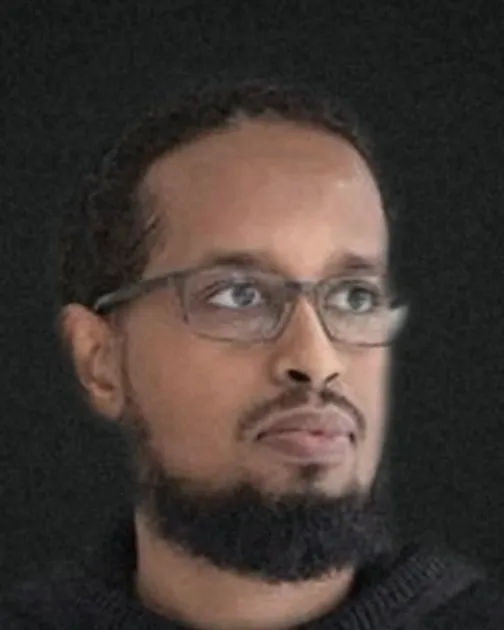
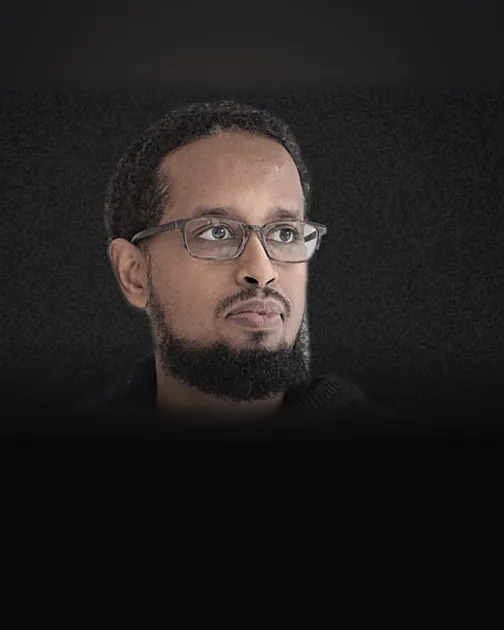
asmbly: pink bio overlay, consistent portraits, new links (#18)
Replaces the decrypt effect with a signal-pink duotone and a short bio that
rises over the portrait on hover (and for cards in the middle of the viewport on
touch screens). Portraits are reframed with face detection so faces sit at the
same size and height; cover text is cropped out and backgrounds extended where
needed, with a shared fade into the card body. Robleh Jama uses his updated
cover photo. Adds @robjama and @amirmxt on X and @pursuitgrooves on Instagram.

Claude-Session: https://claude.ai/code/session_015vvedEEUJEY2Xconp5SVWz

diff --git a/public/asmbly/index.html b/public/asmbly/index.html
@@ -360,16 +360,20 @@
   .card__img::after { content: ""; position: absolute; inset: 0; background: repeating-linear-gradient(0deg, rgba(0,0,0,.4) 0 2px, transparent 2px 4px); mix-blend-mode: multiply; }
   .card__q { position: absolute; inset: 0; display: grid; place-items: center; font-family: var(--mono); font-weight: 600; font-size: clamp(80px, 10vw, 150px); color: rgba(242,242,242,.9); z-index: 2; transition: opacity .5s; }
   .card:hover .card__q { opacity: 0; }
-  .card--revealed .card__img img, .card--revealed:hover .card__img img { filter: none; transform: scale(1.02); }
+  .card--revealed .card__img img, .card--revealed:hover .card__img img { filter: none; transform: scale(1.02); transition: filter .45s ease, transform 1.2s ease; }
   .card--revealed:hover .card__img img { transform: scale(1.06); }
   .card--revealed .card__img::after { opacity: .35; }
   /* Revealed artists: the whole card opens their Instagram (the link stretches over the card) */
   .card--revealed { position: relative; cursor: pointer; }
   /* Decrypt on hover: a canvas over the portrait flicks through the artist's work as pixel tiles, then resolves back */
-  .card__decrypt { position: absolute; inset: 0; width: 100%; height: 100%; z-index: 1; image-rendering: pixelated; opacity: 0; pointer-events: none; }
-  .card__decrypt.on { opacity: 1; }
-  .card__tag { position: absolute; top: 12px; left: 12px; z-index: 2; font-family: var(--mono); font-weight: 600; font-size: 11px; letter-spacing: .14em; text-transform: uppercase; background: var(--signal); color: var(--ink); padding: 4px 7px; opacity: 0; pointer-events: none; }
-  .card__tag.on { opacity: 1; }
+  /* Bio overlay: on hover (or when centred on touch screens) the portrait drops to a signal-pink duotone and a short bio rises in */
+  .card--revealed .card__img::before { content: ""; position: absolute; inset: 0; z-index: 1; background: var(--signal); mix-blend-mode: multiply; opacity: 0; transition: opacity .45s ease; pointer-events: none; }
+  .card__bio { position: absolute; inset: 0; z-index: 2; display: flex; flex-direction: column; justify-content: flex-end; gap: 10px; padding: 22px 20px; color: var(--white); background: linear-gradient(to top, rgba(5,5,5,.88) 0%, rgba(5,5,5,.55) 45%, rgba(5,5,5,0) 75%); opacity: 0; transform: translateY(14px); transition: opacity .4s ease, transform .5s cubic-bezier(.2,.7,.2,1); pointer-events: none; }
+  .card__bio span { font-size: 11px; letter-spacing: .18em; color: var(--signal); }
+  .card__bio p { font-family: var(--body); font-weight: 500; font-size: 15px; line-height: 1.4; }
+  .card--revealed:is(:hover, :focus-within, .is-active) .card__img::before { opacity: .78; }
+  .card--revealed:is(:hover, :focus-within, .is-active) .card__img img { filter: grayscale(1) contrast(1.25) brightness(1.4); }
+  .card--revealed:is(:hover, :focus-within, .is-active) .card__bio { opacity: 1; transform: none; }
   .card__ig { display: inline-block; max-width: 100%; overflow-wrap: anywhere; margin-top: 8px; color: var(--white); text-transform: none; transition: color .25s; }
   .card__ig::after { content: ""; position: absolute; inset: 0; z-index: 3; }
   .card--revealed:hover .card__ig, .card__ig:focus-visible { color: var(--signal); }
@@ -378,7 +382,7 @@
   .card__role { margin-top: 10px; color: var(--grey); }
   .lineup-note { display: flex; justify-content: space-between; align-items: center; gap: 20px; flex-wrap: wrap; margin-top: 28px; }
   @media (max-width: 1000px) { .lineup { grid-template-columns: repeat(2, 1fr); } }
-  @media (max-width: 480px) { .card__name { font-size: 18px; } .card__body { padding: 14px; } .card__ig { font-size: 11px; letter-spacing: .04em; } }
+  @media (max-width: 480px) { .card__name { font-size: 18px; } .card__body { padding: 14px; } .card__ig { font-size: 11px; letter-spacing: .04em; } .card__bio { padding: 14px 12px; gap: 6px; } .card__bio p { font-size: 12px; line-height: 1.35; } .card__bio span { font-size: 9px; } }
 
   /* Venue horizontal scroll */
   .venue { overflow: hidden; }
@@ -851,19 +855,19 @@ document.addEventListener('click', (e) => {
       <span class="eyebrow">Decrypting soon</span>
     </div>
     <div class="lineup">
-      <article class="card card--revealed" data-decrypt="/asmbly/img/decrypt-sophie-hospes.webp"><div class="card__img"><img decoding="async" src="/asmbly/img/sophie-hospes-s.webp" alt="Sophie Hospes" loading="lazy" /></div><div class="card__body"><div class="card__name">Sophie Hospes</div><div class="card__role mono">Speaker · The future of creative work</div><a class="card__ig mono" href="https://www.instagram.com/studiosophiehospes/" target="_blank" rel="noopener" aria-label="Sophie Hospes on Instagram">@studiosophiehospes ↗</a></div></article>
-      <article class="card card--revealed" data-decrypt="/asmbly/img/decrypt-sehun-choi.webp"><div class="card__img"><img decoding="async" src="/asmbly/img/sehun-choi-s.webp" alt="Sehun Choi" loading="lazy" /></div><div class="card__body"><div class="card__name">Sehun Choi</div><div class="card__role mono">Speaker · Artist talk</div><a class="card__ig mono" href="https://www.instagram.com/se.hunchoi/" target="_blank" rel="noopener" aria-label="Sehun Choi: @se.hunchoi">@se.hunchoi ↗</a></div></article>
-      <article class="card card--revealed" data-decrypt="/asmbly/img/decrypt-wilfred-lee.webp"><div class="card__img"><img decoding="async" src="/asmbly/img/wilfred-lee-s.webp" alt="Wilfred Lee" loading="lazy" /></div><div class="card__body"><div class="card__name">Wilfred Lee</div><div class="card__role mono">Panelist · The future of entertainment</div><a class="card__ig mono" href="https://www.instagram.com/theartistsjourney/" target="_blank" rel="noopener" aria-label="Wilfred Lee on Instagram">@theartistsjourney ↗</a></div></article>
-      <article class="card card--revealed" data-decrypt="/asmbly/img/decrypt-andrew-macdonald.webp"><div class="card__img"><img decoding="async" src="/asmbly/img/andrew-macdonald-s.webp" alt="Andrew MacDonald" loading="lazy" /></div><div class="card__body"><div class="card__name">Andrew MacDonald</div><div class="card__role mono">Panelist · Dark Half</div><a class="card__ig mono" href="https://darkhalf.ai/" target="_blank" rel="noopener" aria-label="Andrew MacDonald: darkhalf.ai">darkhalf.ai ↗</a></div></article>
-      <article class="card card--revealed"><div class="card__img"><img decoding="async" src="/asmbly/img/robleh-jama-s.webp" alt="Robleh Jama" loading="lazy" /></div><div class="card__body"><div class="card__name">Robleh Jama</div><div class="card__role mono">Panelist · The Builder's Playbook</div></div></article>
-      <article class="card card--revealed"><div class="card__img"><img decoding="async" src="/asmbly/img/amir-mxt-s.webp" alt="Amir MXT" loading="lazy" /></div><div class="card__body"><div class="card__name">Amir MXT</div><div class="card__role mono">Panelist · The Builder's Playbook</div></div></article>
-      <article class="card card--revealed" data-decrypt="/asmbly/img/decrypt-ali-phi.webp"><div class="card__img"><img decoding="async" src="/asmbly/img/ali-phi-s.webp" alt="Ali Phi" loading="lazy" /></div><div class="card__body"><div class="card__name">Ali Phi</div><div class="card__role mono">Closing AV performance</div><a class="card__ig mono" href="https://www.instagram.com/ali_phi/" target="_blank" rel="noopener" aria-label="Ali Phi on Instagram">@ali_phi ↗</a></div></article>
-      <article class="card card--revealed" data-decrypt="/asmbly/img/decrypt-enna-kim.webp"><div class="card__img"><img decoding="async" src="/asmbly/img/enna-kim-s.webp" alt="Enna Kim" loading="lazy" /></div><div class="card__body"><div class="card__name">Enna Kim</div><div class="card__role mono">Exhibiting artist</div><a class="card__ig mono" href="https://www.instagram.com/fongkikid/" target="_blank" rel="noopener" aria-label="Enna Kim on Instagram">@fongkikid ↗</a></div></article>
-      <article class="card card--revealed" data-decrypt="/asmbly/img/decrypt-pursuit-grooves.webp"><div class="card__img"><img decoding="async" src="/asmbly/img/pursuit-grooves-s.webp" alt="Pursuit Grooves" loading="lazy" /></div><div class="card__body"><div class="card__name">Pursuit Grooves</div><div class="card__role mono">Opening performance</div></div></article>
-      <article class="card card--revealed" data-decrypt="/asmbly/img/decrypt-pfd.webp"><div class="card__img"><img decoding="async" src="/asmbly/img/pfd-s.webp" alt="Pray First Diva" loading="lazy" /></div><div class="card__body"><div class="card__name">Pray First Diva</div><div class="card__role mono">Exhibiting artist</div><a class="card__ig mono" href="https://www.instagram.com/prayfirstdiva/" target="_blank" rel="noopener" aria-label="Pray First Diva on Instagram">@prayfirstdiva ↗</a></div></article>
-      <article class="card card--revealed" data-decrypt="/asmbly/img/decrypt-alex-mcleod.webp"><div class="card__img"><img decoding="async" src="/asmbly/img/alex-mcleod-s.webp?v=2" alt="Alex McLeod" loading="lazy" /></div><div class="card__body"><div class="card__name">Alex McLeod</div><div class="card__role mono">Exhibiting artist</div><a class="card__ig mono" href="https://www.instagram.com/alex_mcleod_/" target="_blank" rel="noopener" aria-label="Alex McLeod on Instagram">@alex_mcleod_ ↗</a></div></article>
-      <article class="card card--revealed" data-decrypt="/asmbly/img/decrypt-geoffrey-pugen.webp"><div class="card__img"><img decoding="async" src="/asmbly/img/geoffrey-pugen-s.webp" alt="Geoffrey Pugen" loading="lazy" /></div><div class="card__body"><div class="card__name">Geoffrey Pugen</div><div class="card__role mono">Exhibiting artist</div><a class="card__ig mono" href="https://www.instagram.com/geoffreypugen/" target="_blank" rel="noopener" aria-label="Geoffrey Pugen on Instagram">@geoffreypugen ↗</a></div></article>
-      <article class="card card--revealed" data-decrypt="/asmbly/img/decrypt-robbot.webp"><div class="card__img"><img decoding="async" src="/asmbly/img/robbot-s.webp" alt="ROBBOT" loading="lazy" /></div><div class="card__body"><div class="card__name">ROBBOT</div><div class="card__role mono">Interactive installation</div><a class="card__ig mono" href="https://www.instagram.com/robbot.5000/" target="_blank" rel="noopener" aria-label="ROBBOT: @robbot.5000">@robbot.5000 ↗</a></div></article>
+      <article class="card card--revealed"><div class="card__img"><img decoding="async" src="/asmbly/img/sophie-hospes-s.webp" alt="Sophie Hospes" loading="lazy" /><div class="card__bio" aria-hidden="true"><span class="mono">About</span><p>Creative director based in Malmö. Through Studio Sophie Hospes and as Creative Director at New Limit Labs, she builds brand worlds across campaigns, product design and AI-powered creative systems.</p></div></div><div class="card__body"><div class="card__name">Sophie Hospes</div><div class="card__role mono">Speaker · The future of creative work</div><a class="card__ig mono" href="https://www.instagram.com/studiosophiehospes/" target="_blank" rel="noopener" aria-label="Sophie Hospes on Instagram">@studiosophiehospes ↗</a></div></article>
+      <article class="card card--revealed"><div class="card__img"><img decoding="async" src="/asmbly/img/sehun-choi-s.webp" alt="Sehun Choi" loading="lazy" /><div class="card__bio" aria-hidden="true"><span class="mono">About</span><p>Seoul-based artist working with generative AI across image, film and large-scale installation, with work for brands including OpenAI, Samsung and LG Electronics.</p></div></div><div class="card__body"><div class="card__name">Sehun Choi</div><div class="card__role mono">Speaker · Artist talk</div><a class="card__ig mono" href="https://www.instagram.com/se.hunchoi/" target="_blank" rel="noopener" aria-label="Sehun Choi: @se.hunchoi">@se.hunchoi ↗</a></div></article>
+      <article class="card card--revealed"><div class="card__img"><img decoding="async" src="/asmbly/img/wilfred-lee-s.webp" alt="Wilfred Lee" loading="lazy" /><div class="card__bio" aria-hidden="true"><span class="mono">About</span><p>Toronto AI filmmaker, worldbuilder and educator. Founder of Artist's Journey and GenTO, he brings storytelling, generative tools and community together into finished work.</p></div></div><div class="card__body"><div class="card__name">Wilfred Lee</div><div class="card__role mono">Panelist · The future of entertainment</div><a class="card__ig mono" href="https://www.instagram.com/theartistsjourney/" target="_blank" rel="noopener" aria-label="Wilfred Lee on Instagram">@theartistsjourney ↗</a></div></article>
+      <article class="card card--revealed"><div class="card__img"><img decoding="async" src="/asmbly/img/andrew-macdonald-s.webp" alt="Andrew MacDonald" loading="lazy" /><div class="card__bio" aria-hidden="true"><span class="mono">About</span><p>Filmmaker and creative-innovation leader at Cream Productions. As executive creative producer at Dark Half, he leads AI-enabled production and VFX workflows for film and television.</p></div></div><div class="card__body"><div class="card__name">Andrew MacDonald</div><div class="card__role mono">Panelist · Dark Half</div><a class="card__ig mono" href="https://darkhalf.ai/" target="_blank" rel="noopener" aria-label="Andrew MacDonald: darkhalf.ai">darkhalf.ai ↗</a></div></article>
+      <article class="card card--revealed"><div class="card__img"><img decoding="async" src="/asmbly/img/robleh-jama-s.webp" alt="Robleh Jama" loading="lazy" /><div class="card__bio" aria-hidden="true"><span class="mono">About</span><p>Toronto product builder and founder of Tomorrow. A Shopify alum, he co-founded Boom, the camera app for video calls, and founded the app studio Tiny Hearts.</p></div></div><div class="card__body"><div class="card__name">Robleh Jama</div><div class="card__role mono">Panelist · The Builder's Playbook</div><a class="card__ig mono" href="https://x.com/robjama" target="_blank" rel="noopener" aria-label="Robleh Jama: @robjama">@robjama ↗</a></div></article>
+      <article class="card card--revealed"><div class="card__img"><img decoding="async" src="/asmbly/img/amir-mxt-s.webp" alt="Amir MXT" loading="lazy" /><div class="card__bio" aria-hidden="true"><span class="mono">About</span><p>Founder of Humblytics, the simple analytics and A/B testing platform for websites. A product builder focused on shipping fast with small teams and new tools.</p></div></div><div class="card__body"><div class="card__name">Amir MXT</div><div class="card__role mono">Panelist · The Builder's Playbook</div><a class="card__ig mono" href="https://x.com/amirmxt" target="_blank" rel="noopener" aria-label="Amir MXT: @amirmxt">@amirmxt ↗</a></div></article>
+      <article class="card card--revealed"><div class="card__img"><img decoding="async" src="/asmbly/img/ali-phi-s.webp" alt="Ali Phi" loading="lazy" /><div class="card__bio" aria-hidden="true"><span class="mono">About</span><p>Tehran-born, Toronto-based computer artist and creative technologist. His live audiovisual sets fuse generative visuals, sound and data, with performances at MUTEK Montréal.</p></div></div><div class="card__body"><div class="card__name">Ali Phi</div><div class="card__role mono">Closing AV performance</div><a class="card__ig mono" href="https://www.instagram.com/ali_phi/" target="_blank" rel="noopener" aria-label="Ali Phi on Instagram">@ali_phi ↗</a></div></article>
+      <article class="card card--revealed"><div class="card__img"><img decoding="async" src="/asmbly/img/enna-kim-s.webp" alt="Enna Kim" loading="lazy" /><div class="card__bio" aria-hidden="true"><span class="mono">About</span><p>Korean-Canadian new media artist and VJ working with projection mapping, murals, interactive installation and live performance, from the AGO to MUTEK and Venus Fest.</p></div></div><div class="card__body"><div class="card__name">Enna Kim</div><div class="card__role mono">Exhibiting artist</div><a class="card__ig mono" href="https://www.instagram.com/fongkikid/" target="_blank" rel="noopener" aria-label="Enna Kim on Instagram">@fongkikid ↗</a></div></article>
+      <article class="card card--revealed"><div class="card__img"><img decoding="async" src="/asmbly/img/pursuit-grooves-s.webp" alt="Pursuit Grooves" loading="lazy" /><div class="card__bio" aria-hidden="true"><span class="mono">About</span><p>Toronto producer, vocalist and visual artist Vanese Smith. 16+ albums and EPs on labels like Tectonic and Deepblak, MUTEK stages, and a 2025 Johanna Metcalf Prize finalist.</p></div></div><div class="card__body"><div class="card__name">Pursuit Grooves</div><div class="card__role mono">Opening performance</div><a class="card__ig mono" href="https://www.instagram.com/pursuitgrooves/" target="_blank" rel="noopener" aria-label="Pursuit Grooves: @pursuitgrooves">@pursuitgrooves ↗</a></div></article>
+      <article class="card card--revealed"><div class="card__img"><img decoding="async" src="/asmbly/img/pfd-s.webp" alt="Pray First Diva" loading="lazy" /><div class="card__bio" aria-hidden="true"><span class="mono">About</span><p>Toronto digital artist working across visuals, technology and interaction, shown at Intel's Encore AI and InterAccess' flashDRIVE. At ASMBLY: a new interactive sculptural installation.</p></div></div><div class="card__body"><div class="card__name">Pray First Diva</div><div class="card__role mono">Exhibiting artist</div><a class="card__ig mono" href="https://www.instagram.com/prayfirstdiva/" target="_blank" rel="noopener" aria-label="Pray First Diva on Instagram">@prayfirstdiva ↗</a></div></article>
+      <article class="card card--revealed"><div class="card__img"><img decoding="async" src="/asmbly/img/alex-mcleod-s.webp?v=2" alt="Alex McLeod" loading="lazy" /><div class="card__bio" aria-hidden="true"><span class="mono">About</span><p>Toronto artist building digital worlds and playable spaces. At ASMBLY he brings Miros Mirror, a playable installation you can step up to and try for yourself.</p></div></div><div class="card__body"><div class="card__name">Alex McLeod</div><div class="card__role mono">Exhibiting artist</div><a class="card__ig mono" href="https://www.instagram.com/alex_mcleod_/" target="_blank" rel="noopener" aria-label="Alex McLeod on Instagram">@alex_mcleod_ ↗</a></div></article>
+      <article class="card card--revealed"><div class="card__img"><img decoding="async" src="/asmbly/img/geoffrey-pugen-s.webp" alt="Geoffrey Pugen" loading="lazy" /><div class="card__bio" aria-hidden="true"><span class="mono">About</span><p>Toronto video artist whose screen sculptures fold LED screens into architectural forms. A K.M. Hunter Award recipient with work in the BMO and TD collections.</p></div></div><div class="card__body"><div class="card__name">Geoffrey Pugen</div><div class="card__role mono">Exhibiting artist</div><a class="card__ig mono" href="https://www.instagram.com/geoffreypugen/" target="_blank" rel="noopener" aria-label="Geoffrey Pugen on Instagram">@geoffreypugen ↗</a></div></article>
+      <article class="card card--revealed"><div class="card__img"><img decoding="async" src="/asmbly/img/robbot-s.webp" alt="ROBBOT" loading="lazy" /><div class="card__bio" aria-hidden="true"><span class="mono">About</span><p>Toronto artist Robert Rigo, making interactive installations and live visuals. At ASMBLY, ROBBOT brings an interactive artwork to the exhibition floor.</p></div></div><div class="card__body"><div class="card__name">ROBBOT</div><div class="card__role mono">Interactive installation</div><a class="card__ig mono" href="https://www.instagram.com/robbot.5000/" target="_blank" rel="noopener" aria-label="ROBBOT: @robbot.5000">@robbot.5000 ↗</a></div></article>
       <article class="card"><div class="card__img"><img decoding="async" src="/asmbly/img/dr-curtain-s.webp" alt="" loading="lazy" /><span class="card__q">?</span></div><div class="card__body"><div class="card__name" data-scramble="PANELIST">PANELIST</div><div class="card__role mono">The future of entertainment</div></div></article>
       <article class="card"><div class="card__img"><img decoding="async" src="/asmbly/img/art-flower-s.webp" alt="" loading="lazy" /><span class="card__q">?</span></div><div class="card__body"><div class="card__name" data-scramble="PANELIST">PANELIST</div><div class="card__role mono">The future of entertainment</div></div></article>
       <article class="card"><div class="card__img"><img decoding="async" src="/asmbly/img/dr-dj-s.webp" alt="" loading="lazy" /><span class="card__q">?</span></div><div class="card__body"><div class="card__name" data-scramble="MODERATOR">MODERATOR</div><div class="card__role mono">Machine Cinema</div></div></article>
@@ -1195,117 +1199,11 @@ document.addEventListener('click', (e) => {
     }, 1400);
   }
 
-  /* Decrypt: revealed cards glitch through 8 pixel tiles of the artist's work (one sprite each) as
-     signal-pink duotones with slice shifts, then resolve the portrait from coarse pink to clean.
-     Cards without a sprite run just the portrait resolve. Hover on desktop; once on scroll-in for touch */
-  const decryptCards = [...document.querySelectorAll('.card--revealed')];
-  if (!reduce && decryptCards.length) {
-    const TILE_W = 240, TILE_H = 302, TILES = 8;
-    const sprites = {};
-    const loadSprite = src => !src ? Promise.resolve(null) : sprites[src] || (sprites[src] = new Promise(res => {
-      const im = new Image(); im.onload = () => res(im); im.onerror = () => res(null); im.src = src;
-    }));
-    const small = document.createElement('canvas');
-    const sctx = small.getContext('2d');
-    // Draw a source rect into a tiny buffer, then blow it up with smoothing off: crisp square pixels
-    const pixelate = (ctx, w, h, src, sx, sy, sw, sh, cols) => {
-      const rows = Math.max(1, Math.round(cols * h / w));
-      small.width = cols; small.height = rows;
-      sctx.drawImage(src, sx, sy, sw, sh, 0, 0, cols, rows);
-      ctx.imageSmoothingEnabled = false;
-      ctx.drawImage(small, 0, 0, cols, rows, 0, 0, w, h);
-    };
-    const SIGNAL = getComputedStyle(document.documentElement).getPropertyValue('--signal').trim() || '#fe2e89';
-    const rnd = (a, b) => a + Math.random() * (b - a);
-    // Grayscale tile to a two-tone in the site palette: ink-to-pink, or pink-to-white
-    const duotone = (ctx, w, h, variant) => {
-      ctx.globalCompositeOperation = variant ? 'screen' : 'multiply';
-      ctx.fillStyle = SIGNAL; ctx.fillRect(0, 0, w, h);
-      ctx.globalCompositeOperation = 'source-over';
-    };
-    const wash = (ctx, w, h, alpha) => {
-      ctx.globalCompositeOperation = 'color'; ctx.globalAlpha = alpha;
-      ctx.fillStyle = SIGNAL; ctx.fillRect(0, 0, w, h);
-      ctx.globalCompositeOperation = 'source-over'; ctx.globalAlpha = 1;
-    };
-    // Shove a few horizontal bands sideways and drop a pink scan bar
-    const glitch = (ctx, w, h, bands, amp) => {
-      for (let i = 0; i < bands; i++) {
-        const y = rnd(0, h), bh = Math.max(2, rnd(.01, .08) * h), dx = rnd(-amp, amp) * w;
-        ctx.drawImage(ctx.canvas, 0, y, w, bh, dx, y, w, bh);
-      }
-      if (Math.random() < .7) { ctx.fillStyle = SIGNAL; ctx.fillRect(0, rnd(0, h), w, Math.max(2, h * rnd(.006, .02))); }
-    };
-    const run = async card => {
-      if (card._decrypting) return;
-      const sprite = await loadSprite(card.dataset.decrypt);
-      const photo = card.querySelector('.card__img img');
-      if (!photo.complete) return;
-      card._decrypting = true;
-      const box = card.querySelector('.card__img');
-      let cv = box.querySelector('.card__decrypt'), tag = box.querySelector('.card__tag');
-      if (!cv) {
-        cv = document.createElement('canvas'); cv.className = 'card__decrypt'; cv.setAttribute('aria-hidden', 'true');
-        tag = document.createElement('span'); tag.className = 'card__tag'; tag.setAttribute('aria-hidden', 'true');
-        box.append(cv, tag);
-      }
-      const w = cv.width = Math.round(box.clientWidth * Math.min(devicePixelRatio, 2));
-      const h = cv.height = Math.round(box.clientHeight * Math.min(devicePixelRatio, 2));
-      const ctx = cv.getContext('2d');
-      // Portrait source rect matching object-fit: cover
-      const pr = photo.naturalWidth / photo.naturalHeight, br = w / h;
-      const pw = pr > br ? photo.naturalHeight * br : photo.naturalWidth;
-      const ph = pr > br ? photo.naturalHeight : photo.naturalWidth / br;
-      const px = (photo.naturalWidth - pw) / 2, py = (photo.naturalHeight - ph) / 2;
-      const tiles = sprite ? TILES : 0;
-      const order = [...Array(tiles).keys()].sort(() => Math.random() - .5);
-      const portrait = (cols, pink, bands) => () => {
-        pixelate(ctx, w, h, photo, px, py, pw, ph, cols);
-        if (pink) wash(ctx, w, h, pink);
-        if (bands) glitch(ctx, w, h, bands, .06);
-      };
-      const frames = [
-        ...order.map((i, n) => () => {
-          pixelate(ctx, w, h, sprite, i * TILE_W, 0, TILE_W, TILE_H, 10 + ((Math.random() * 3) | 0) * 2);
-          duotone(ctx, w, h, n % 2);
-          glitch(ctx, w, h, 3, .12);
-        }),
-        // Without work tiles, open on a hard pink scramble of the portrait itself
-        ...(tiles ? [] : [portrait(5, 1, 5), portrait(7, 1, 4), portrait(5, 1, 5), portrait(9, 1, 4), portrait(12, .9, 3)]),
-        portrait(8, .85, 3), portrait(16, .5, 2), portrait(32, .2, 1), portrait(64, 0, 0)
-      ];
-      cv.classList.add('on'); tag.classList.add('on');
-      let k = 0;
-      const tick = () => {
-        if (k < frames.length) {
-          frames[k]();
-          tag.textContent = k < tiles ? `Decrypting ${String(k + 1).padStart(2, '0')}/${tiles}` : k < frames.length - 1 ? 'Decrypting' : 'Decrypted';
-          k++; setTimeout(tick, k <= tiles ? 85 : 70);
-        } else {
-          cv.classList.remove('on'); tag.classList.remove('on'); card._decrypting = false;
-        }
-      };
-      tick();
-    };
-    const canHover = matchMedia('(hover: hover)').matches;
-    decryptCards.forEach(card => {
-      if (canHover) {
-        card.addEventListener('mouseenter', () => run(card));
-        card.addEventListener('focusin', () => run(card));
-      }
-    });
-    // Warm the sprite cache just before a card scrolls in; on touch, play once when it's mostly in view
-    const warm = new IntersectionObserver(entries => entries.forEach(({ target, isIntersecting }) => {
-      if (isIntersecting) { loadSprite(target.dataset.decrypt); warm.unobserve(target); }
-    }), { rootMargin: '0px 0px 300px 0px' });
-    decryptCards.forEach(c => warm.observe(c));
-    if (!canHover) {
-      const play = new IntersectionObserver(entries => entries.forEach(({ target, isIntersecting }) => {
-        // Wait for the card's fade-up to mostly finish before decrypting
-        if (isIntersecting) { setTimeout(() => run(target), 500); play.unobserve(target); }
-      }), { threshold: .6 });
-      decryptCards.forEach(c => play.observe(c));
-    }
+  /* Bio overlay on touch screens: no hover, so cards in the middle band of the viewport show their bio */
+  if (!matchMedia('(hover: hover)').matches) {
+    const bioIO = new IntersectionObserver(entries => entries.forEach(({ target, isIntersecting }) =>
+      target.classList.toggle('is-active', isIntersecting)), { rootMargin: '-38% 0px -38% 0px' });
+    document.querySelectorAll('.card--revealed').forEach(c => bioIO.observe(c));
   }
 
   /* Film player: loads the video only when opened, pauses the hero reel and page scroll while it plays */
